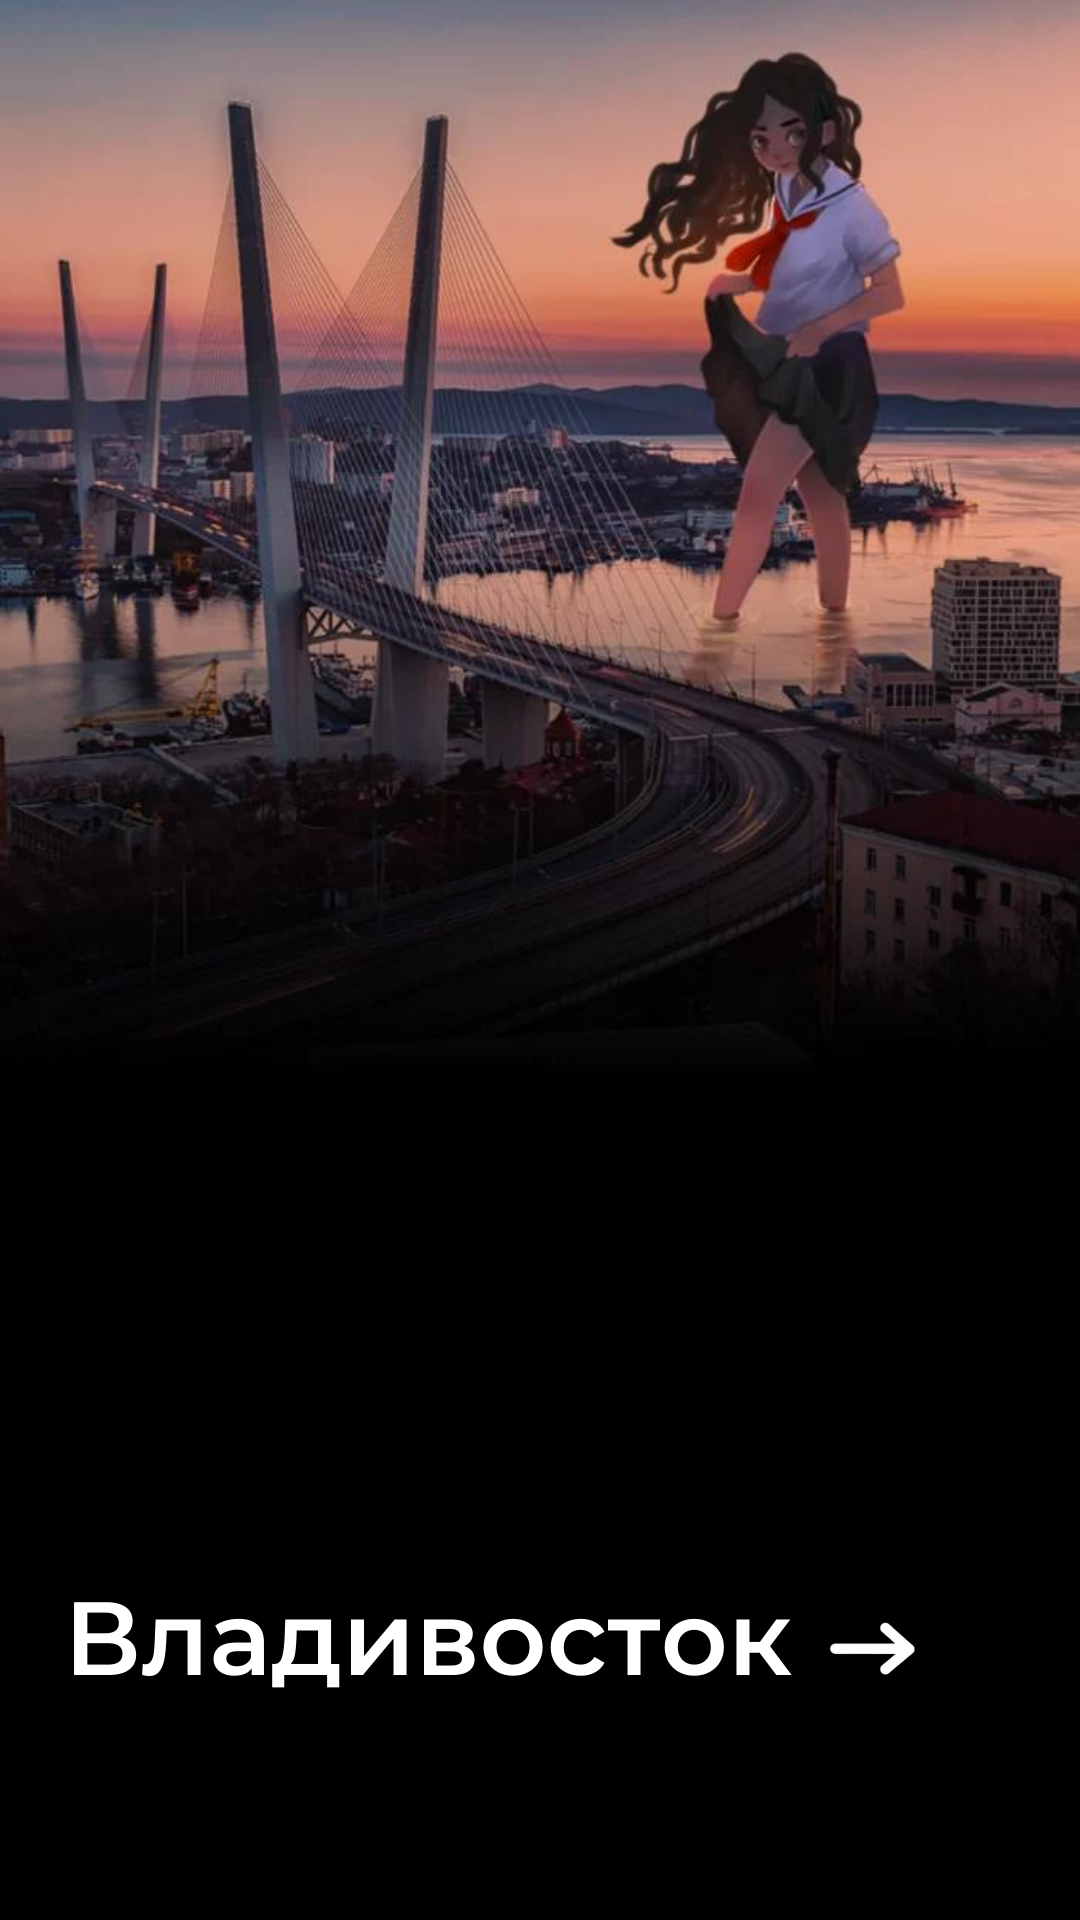
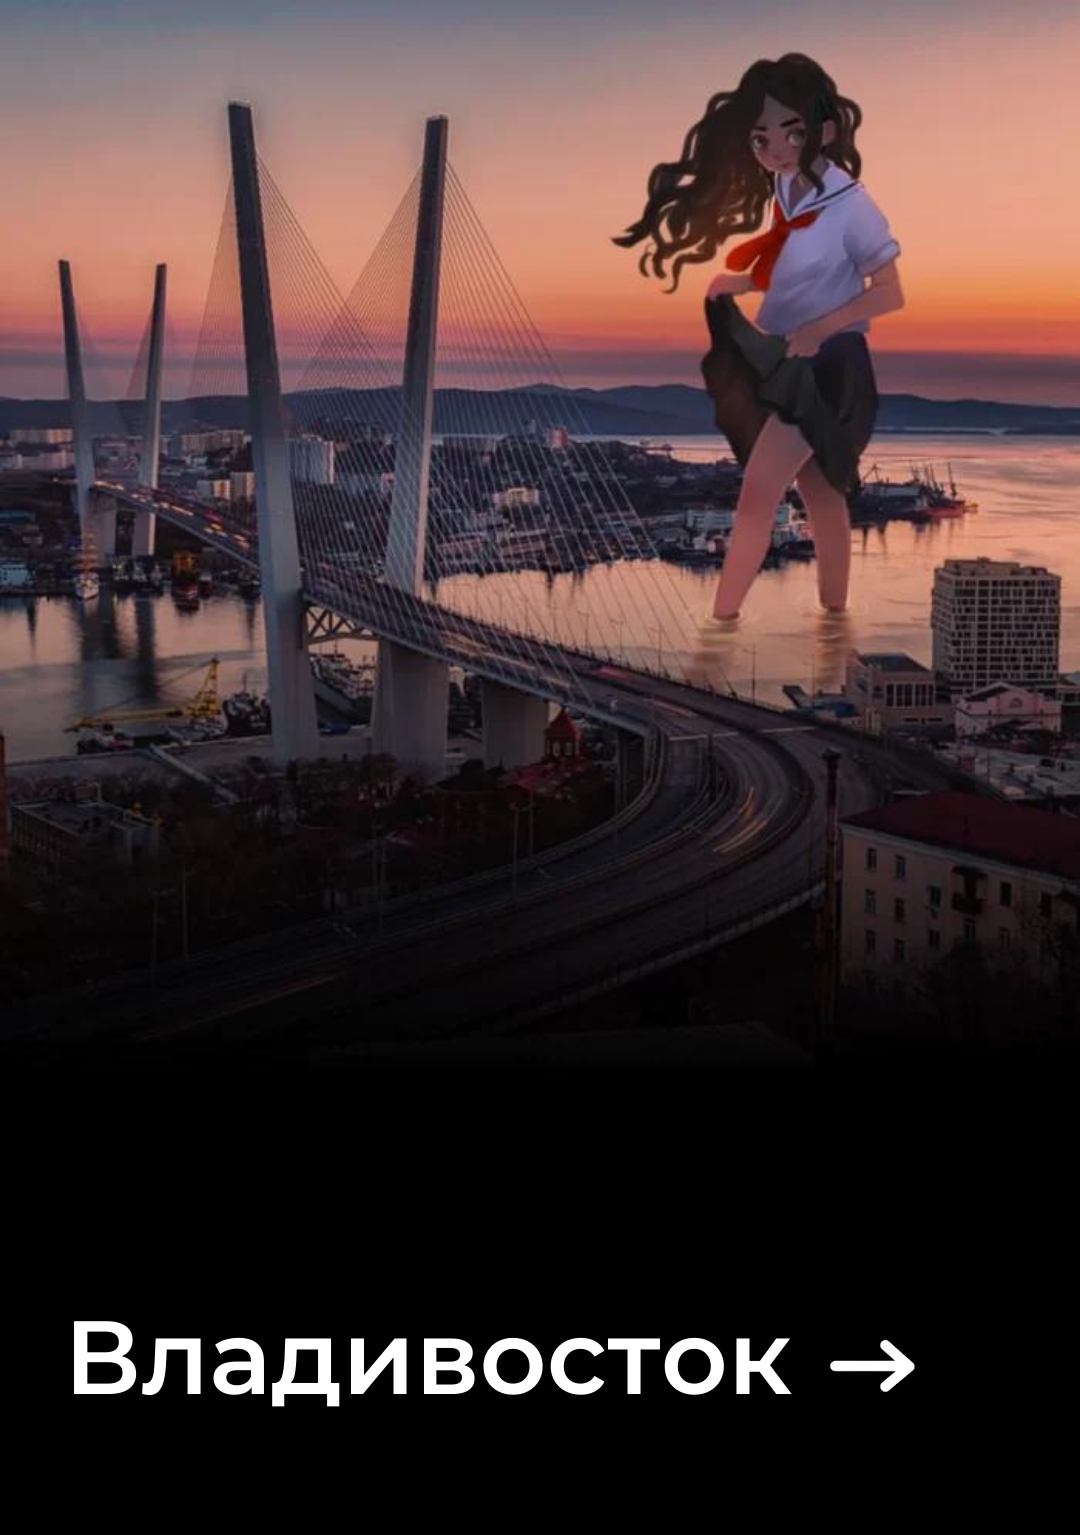
пыталась исправить картинку в карусели

diff --git a/index.html b/index.html
@@ -129,34 +129,52 @@
 			Нет твоего города? Оставь заявку, и наша<br>команда рассмотрит ее.</div>
 	  </div>
 	  <div class="slider">
+		<div class="slider_item">
+			<a href="#" class="slider_link">
+				<img src="images/rum_vld.webp" alt="">
+			</a>
+			<a href="#" class="slider_link2">
+				<img src="images/влдтекст.png" alt="">
+			</a>
+		</div>
 		  <div class="slider_item">
-			  <a href="#" class="slider_link">
-				  <img src="images/Владивосток.png" alt="">
-			  </a>
-		  </div>
-		  <div class="slider_item">
 			<a href="#" class="slider_link">
-				<img src="images/Владивосток.png" alt="">
+				<img src="images/rum_vld.webp" alt="">
+			</a>
+			<a href="#" class="slider_link2">
+				<img src="images/влдтекст.png" alt="">
 			</a>
 		</div>
 		<div class="slider_item">
 			<a href="#" class="slider_link">
-				<img src="images/Владивосток.png" alt="">
+				<img src="images/rum_vld.webp" alt="">
+			</a>
+			<a href="#" class="slider_link2">
+				<img src="images/влдтекст.png" alt="">
 			</a>
 		</div>
 		<div class="slider_item">
 			<a href="#" class="slider_link">
-				<img src="images/Владивосток.png" alt="">
+				<img src="images/rum_vld.webp" alt="">
+			</a>
+			<a href="#" class="slider_link2">
+				<img src="images/влдтекст.png" alt="">
 			</a>
 		</div>
 		<div class="slider_item">
 			<a href="#" class="slider_link">
-				<img src="images/Владивосток.png" alt="">
+				<img src="images/rum_vld.webp" alt="">
+			</a>
+			<a href="#" class="slider_link2">
+				<img src="images/влдтекст.png" alt="">
 			</a>
 		</div>
 		<div class="slider_item">
 			<a href="#" class="slider_link">
-				<img src="images/Владивосток.png" alt="">
+				<img src="images/rum_vld.webp" alt="">
+			</a>
+			<a href="#" class="slider_link2">
+				<img src="images/влдтекст.png" alt="">
 			</a>
 		</div>
 	  </div>

diff --git a/css/style.css b/css/style.css
@@ -392,6 +392,7 @@ a {
 	min-width: 0;
 	position: relative;
 	padding: 0px 60px;
+	margin: 50px 100px 100px;
 }
 .slider .slick-arrow {
 	position: absolute;
@@ -409,8 +410,19 @@ a {
 	right: 0;
 }
 .slider_item {
-
+	display: flex;
+	flex-direction: column;
+	margin: 10px;
 }
+.slider_link img {
+	border-radius: 10px 10px 0px 0px;
+	width: 250px;
+}
+.slider_link2 img {
+	border-radius: 0px 0px 10px 10px;
+	width: 250px;
+}
+
 
 
 
